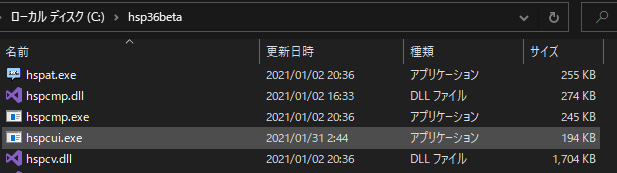
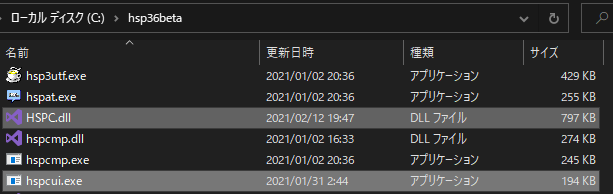
add resource file and update document

diff --git a/README.md b/README.md
@@ -5,8 +5,9 @@ HSPのコマンドラインインターフェース。hspcのパクリ。
 # やること
 [Release](https://github.com/Asugakoisi/HSPComanndLine/releases/tag/v0.5.0.0) をダウンロードして、中身をHSPシステムフォルダにコピーするか、  
 以下の二つのことをしてください。  
-1. src\json\ja と src\json\en ディレクトリを丸ごとHSPシステムフォルダにコピーする。
-2. src\bin ディレクトリの中身を全てHSPシステムフォルダにコピーする。
+1. `src\json\ja`と`src\json\en`ディレクトリを丸ごと`HSPシステムフォルダ`にコピーする。
+2. `src\bin`ディレクトリの中身を`HSPシステムフォルダ`にコピーする。
+3. `src\bin`ディレクトリの中身を`HSPシステムフォルダ\en`にコピーする。
   
 つまり、こうなっていればいいです。  
 HSPディレクトリ:  
